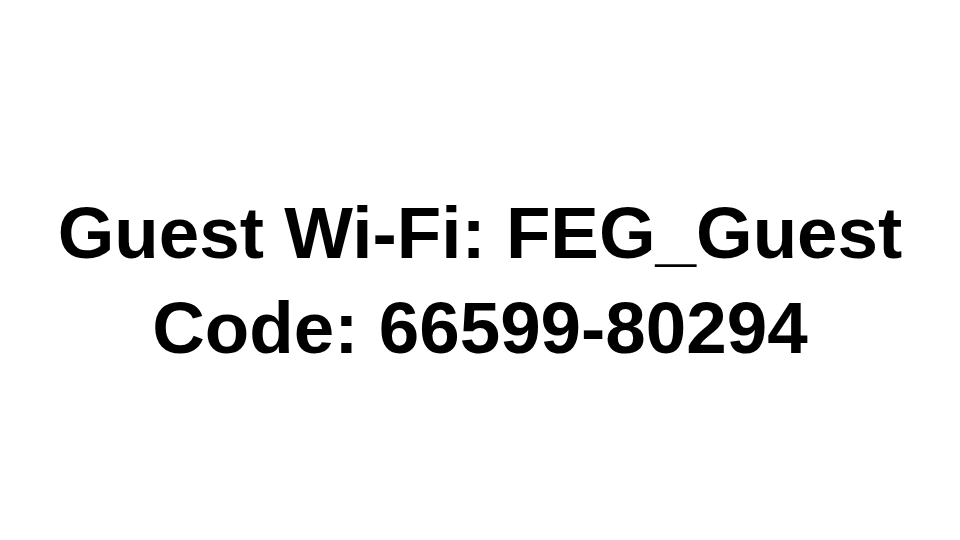
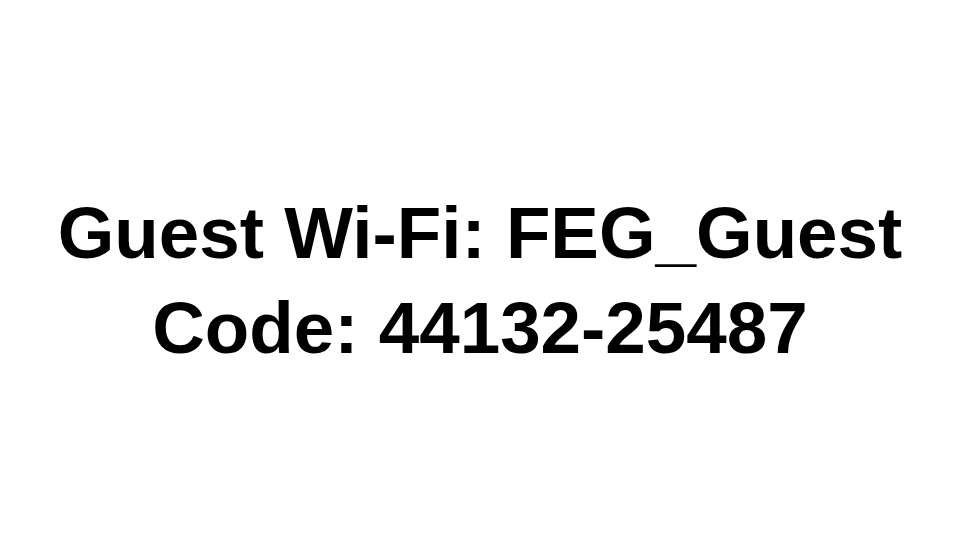
Automated Weekly Wi-Fi Refresh and E-Ink Image Update

Changed region(s): [[0.375, 0.563, 0.8438, 0.6519]]

diff --git a/wifi/wifi.html b/wifi/wifi.html
@@ -25,7 +25,7 @@
 </head>
 <body>
     <div class="wifi-line">
-        Guest Wi-Fi: FEG_Guest<br>Code: 66599-80294
+        Guest Wi-Fi: FEG_Guest<br>Code: 44132-25487
     </div>
 </body>
 </html>
